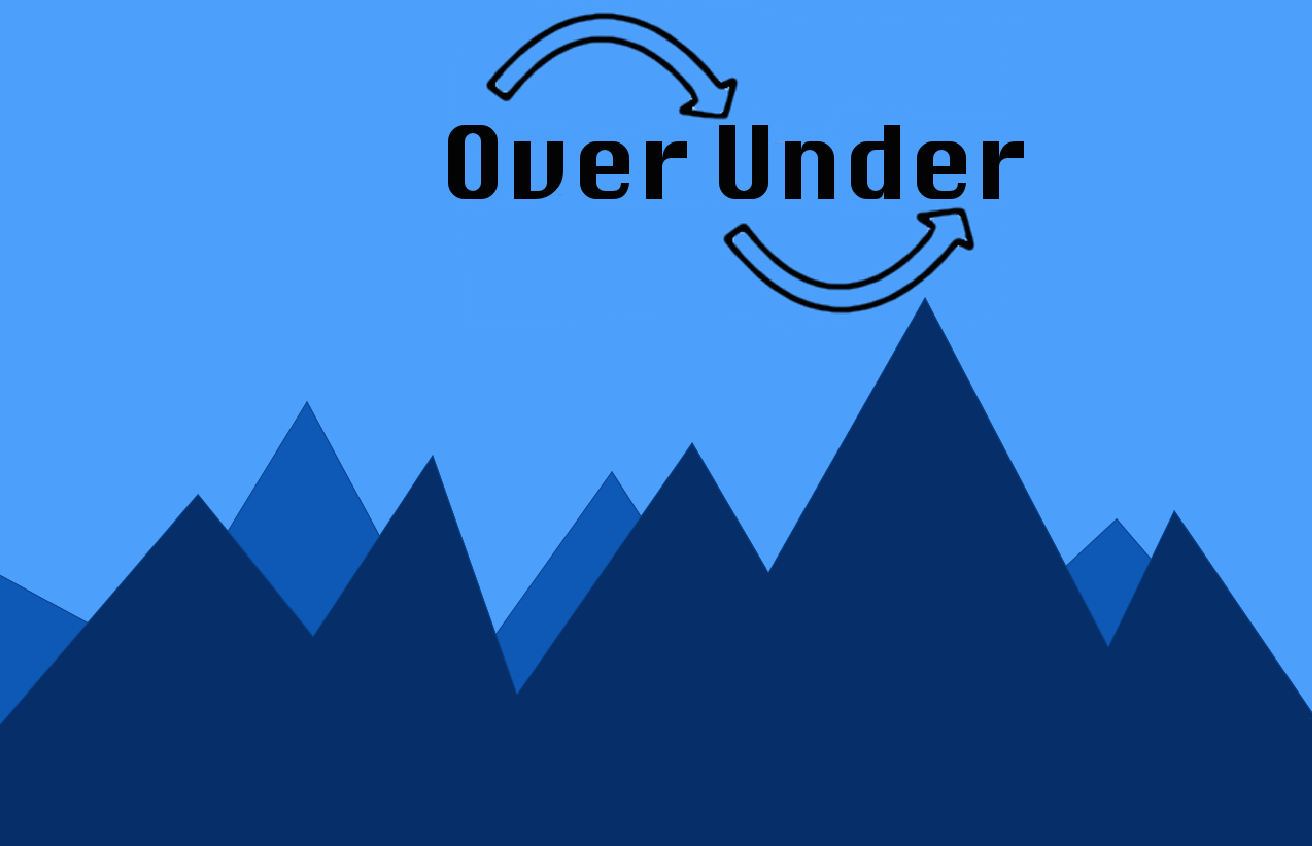
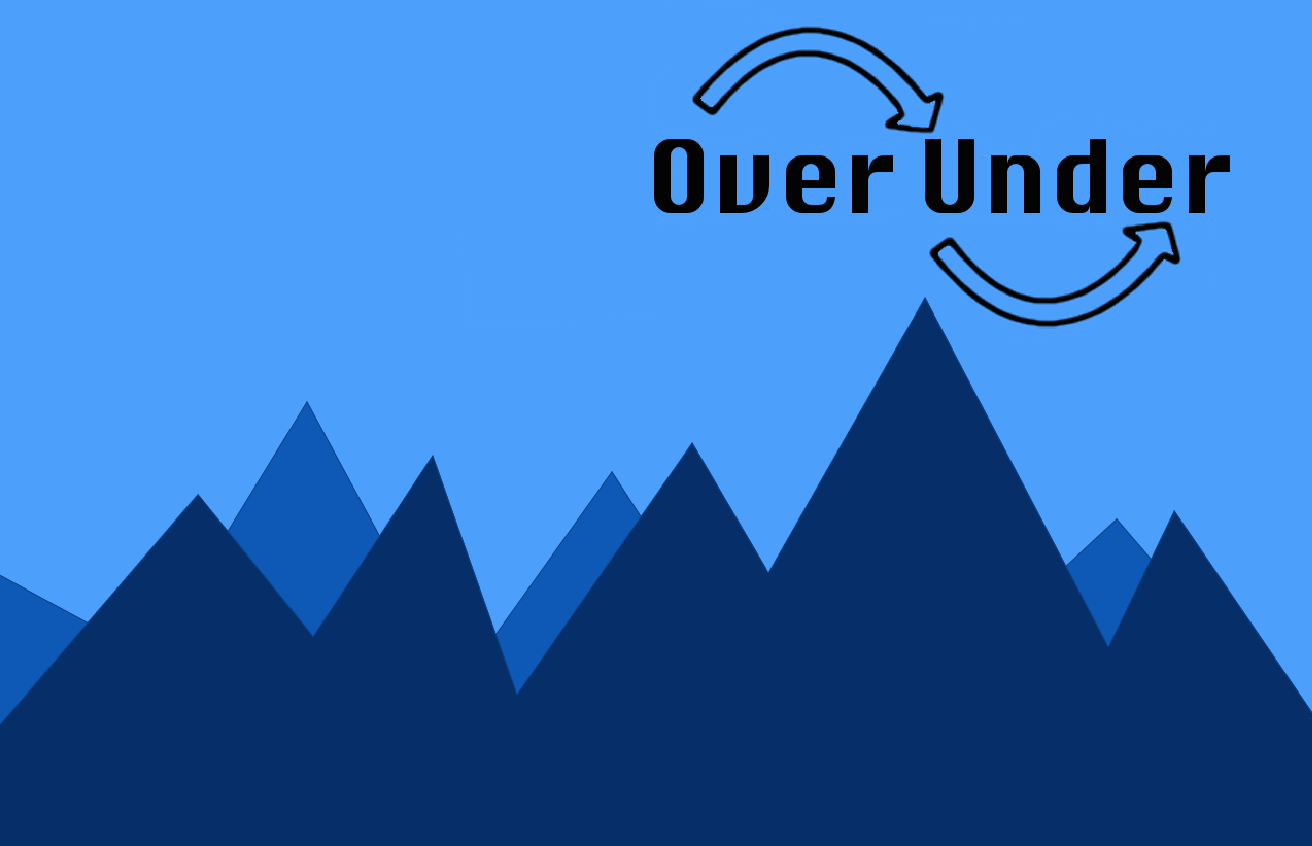
Cheat Code/ Home button
I added a cheat code when you press ‘c’ in the game. When you press
escape in the game, the game now exits. I added a home button right
next to the reset button. I also changed the background for the main
menu just to move the over under sign to the right more

Changed region(s): [[0.3438, 0.0, 0.9375, 0.3995]]

diff --git a/src/main.py b/src/main.py
@@ -17,9 +17,15 @@ def load():
     
     pygame.display.set_caption("Over Under")
     
+    #creating the reset button
     resetLoc = (30, 30)
     resetSize = (45, 45)
     reset = Button("../resources/reset.png", resetLoc, resetSize)
+    
+    #creating the home button
+    homeLoc = (87, 30)
+    homeSize = (45, 45)
+    home = Button("../resources/home.png", homeLoc, homeSize)
     
     #Does not work properly on Macs
     timer = pygame.time.Clock()
@@ -48,12 +54,32 @@ def load():
         
         #if the player exits the game
         for event in pygame.event.get():
-            if event.type == pygame.QUIT:
+            if event.type == pygame.QUIT or (event.type == pygame.KEYDOWN and event.key == pygame.K_ESCAPE):
                 done = True
                 sys.exit()
                 
             #checks for various key presses
             if event.type == pygame.KEYDOWN:
+                if event.key == pygame.K_c:
+                    if current_level_num == len(level_list) - 1:
+                        current_level_num += 1
+                        import EndScreen
+                        EndScreen.load()
+                        return current_level_num
+                    playerOne.rect.x = 20
+                    playerOne.rect.y = SCREEN_HEIGHT - 20 - 80
+                    playerTwo.rect.x = 80
+                    playerTwo.rect.y = SCREEN_HEIGHT - 20 - 80
+                    playerOne.speedX = 0
+                    playerOne.speedY = 0
+                    playerTwo.speedX = 0
+                    playerTwo.speedY = 0
+                    playerOne.hasKey = False
+                    playerTwo.hasKey = False
+                    if playerTwo.crouching:
+                        playerTwo.standUp(current_level.platform_list)
+                    current_level_num += 1
+                    current_level = level_list[current_level_num]
                 if event.key == pygame.K_w:
                     playerOne.jump()
                 if event.key == pygame.K_a:
@@ -129,9 +155,13 @@ def load():
         tutorialText = current_level.message
         tutorialWrite = font.render(tutorialText, 1, [0, 0, 255])
         screen.blit(tutorialWrite, ((SCREEN_WIDTH - tutorialWrite.get_width())/2, 20))
+       
+        #to determine what button was pressed
         screen.blit(reset.image, reset)
+        screen.blit(home.image, home)
         if (game == 2):
-            Button.mouseClick(reset, resetSize, resetLoc)
+            Button.mouseClick(reset, resetSize, resetLoc, 1)
+            Button.mouseClick(home, homeSize, homeLoc, 2)
         
         
         #for 60fps
@@ -190,7 +220,7 @@ class Player(pygame.sprite.Sprite):
         
     def update(self, platform_list, otherPlayer):
         levelComplete = False
-        
+        self.image.set_colorkey(pygame.Color("white"))
         #calculates new y speed
         self.calcGrav()
  
@@ -352,23 +382,29 @@ class Player(pygame.sprite.Sprite):
         self.crouching = True       
 
     def jump(self):
+        self.image.set_colorkey(pygame.Color("white"))
         if self.onGround:
             self.speedY = -12 + (4.5 * (self.playerNum - 1)) #different values for different players
             self.onGround = False
  
     def draw(self, screen):
+        self.image.set_colorkey(pygame.Color("white"))
         screen.blit(self.image, (self.rect.x, self.rect.y))
 
     def go_left(self):
+        self.image.set_colorkey(pygame.Color("white"))
         self.speedX = -6
  
     def go_right(self):
+        self.image.set_colorkey(pygame.Color("white"))
         self.speedX = 6
  
     def stop(self):
+        self.image.set_colorkey(pygame.Color("white"))
         self.speedX = 0        
     
     def animate(self):
+        self.image.set_colorkey(pygame.Color("white"))
         if self.speedX < 0 and self.speedY == 0:
             #moving left
             if not self.crouching:
@@ -413,15 +449,22 @@ class Button(pygame.sprite.Sprite):
         self.rect.y = location[1]
 
         
-    def mouseClick(self, buttonSize, location):
+    def mouseClick(self, buttonSize, location, file):
 
-        
         mouseLoc = pygame.mouse.get_pos()
 
+        #file 1 is to reset the level
+        if file == 1:
+            if (mouseLoc[0] > location[0] and mouseLoc[0] < (location[0] + buttonSize[0])):
+                if (mouseLoc[1] > location[1] and mouseLoc[1] < (location[1] + buttonSize[1])):
+                    load()
+        #file 1 is to return to main menu
+        if file == 2:
+            if (mouseLoc[0] > location[0] and mouseLoc[0] < (location[0] + buttonSize[0])):
+                if (mouseLoc[1] > location[1] and mouseLoc[1] < (location[1] + buttonSize[1])):
+                    import MainMenu
+                    MainMenu.menu()
         
-        if (mouseLoc[0] > location[0] and mouseLoc[0] < (location[0] + buttonSize[0])):
-            if (mouseLoc[1] > location[1] and mouseLoc[1] < (location[1] + buttonSize[1])):
-                load()
         
 if(__name__ == "__main__"):
     load()

diff --git a/src/Key.py b/src/Key.py
@@ -9,7 +9,7 @@ class key(pygame.sprite.Sprite):
 		# make 'color' transparent on the image
 		self.image.set_colorkey((0,0,0)) 
 		# resize image to 40x40 px
-		self.image = pygame.transform.scale(self.image, (20,40))    
+		self.image = pygame.transform.scale(self.image, (40,20))    
 		# set the rectangle defined for this image for collision detection
 		self.rect = self.image.get_rect()
 		# position the image
